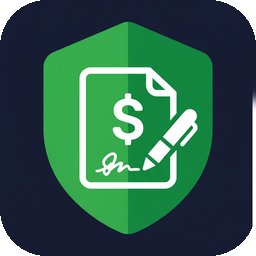
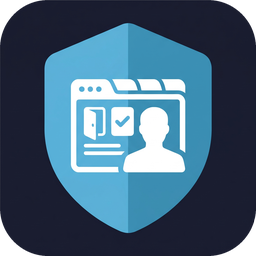
chore(promin_portal_empleado): nombre Portal PROMIN e icono nuevo
Claude-Session: https://claude.ai/code/session_01QXbosKX7isUbCDzq4VdiZM

diff --git a/promin_portal_empleado/__manifest__.py b/promin_portal_empleado/__manifest__.py
@@ -1,5 +1,5 @@
 {
-    'name': 'PROMIN - Portal del Empleado',
+    'name': 'Portal PROMIN',
     'version': '19.0.1.0.0',
     'summary': 'Portal del Empleado: DNI, derechohabientes, CV y CUL con aprobación de RRHH; contratos y boletas de pago con registro de lectura',
     'author': 'Nuage Peru SAC',

diff --git a/promin_portal_empleado/README.md b/promin_portal_empleado/README.md
@@ -7,8 +7,8 @@ Odoo 19. Depende de `hr`, `hr_payroll`, `portal`, `mail`.
 - **Mis datos** (el empleado registra; RRHH aprueba o rechaza con motivo): DNI, derechohabientes, estudios, experiencia laboral y CUL, con adjuntos PDF/JPG/PNG (5 MB). Los datos aprobados solo cambian mediante una solicitud de cambio, que también se aprueba. Al aprobar un DNI se actualiza el N.° de identificación del empleado.
 - **Mis documentos**: contratos y otros documentos que RRHH publica (solo ver/descargar) y boletas de pago (PDF de la boleta PE) con **registro de lectura** (primera apertura y n.° de veces), visible en *Lectura de boletas*.
 
-## Menú (RRHH)
-Portal del Empleado: Datos por aprobar · Contratos y documentos · Lectura de boletas · Accesos al portal.
+## Menú (RRHH, app "Portal PROMIN")
+Portal PROMIN: Datos por aprobar · Contratos y documentos · Lectura de boletas · Accesos al portal.
 
 ## Próximas entregas
 Renta de 5.ª categoría (2 planillas), vacaciones por periodos, encuestas en el portal.
